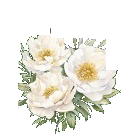
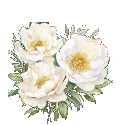
fix: adjust vertical spacing to prevent The Wedding of overlapping couple name and restore full flower petals

Changed region(s): [[0.05, 0.168, 0.95, 1.0], [0.25, 0.696, 0.275, 0.72]]

diff --git a/src/utils/photoCompositor.js b/src/utils/photoCompositor.js
@@ -17,7 +17,7 @@ function loadFlowerImage() {
     img.onerror = () => {
       resolve(null);
     };
-    img.src = '/flower-decor.png';
+    img.src = '/flower-decor.png?v=2';
   });
 }
 
@@ -124,7 +124,7 @@ export async function composePhotoboothImage({
   const PADDING = 38;
   const GAP = 18;
   const TOP_MARGIN = 38; // Tepi atas foto lurus dengan margin yang proporsional
-  const FOOTER_HEIGHT = 275;
+  const FOOTER_HEIGHT = 295;
 
   let canvasHeight = 1080;
   let slotWidth = 0;
@@ -228,7 +228,7 @@ export async function composePhotoboothImage({
   }
 
   // 5. Render Teks Footer Pernikahan
-  const footerContentTop = photoBottomY + 26;
+  const footerContentTop = photoBottomY + 22;
   const centerX = CANVAS_WIDTH / 2;
 
   ctx.textAlign = 'center';
@@ -238,47 +238,47 @@ export async function composePhotoboothImage({
   const cleanMessage = message.trim();
   const { prefix, couple } = parseWeddingTitle(weddingInfo.title);
 
-  // Baris 1: "The Wedding of" (di bawah foto, di atas Rahma & Febi, font sama seperti nama tamu)
+  // Baris 1: "The Wedding of" (di bawah foto, di atas Rahma & Febi dengan jarak yang lega)
   ctx.fillStyle = '#E8EFE5';
-  ctx.font = 'italic 500 20px "Cormorant Garamond", "Plus Jakarta Sans", sans-serif';
-  ctx.fillText(prefix || 'The Wedding of', centerX, footerContentTop + 14);
+  ctx.font = '500 19px "Cormorant Garamond", "Plus Jakarta Sans", sans-serif';
+  ctx.fillText(prefix || 'The Wedding of', centerX, footerContentTop + 16);
 
-  // Baris 2: Nama Pengantin ("Rahma & Febi" dengan font cursive kaligrafi elegan)
+  // Baris 2: Nama Pengantin ("Rahma & Febi" dengan font cursive kaligrafi elegan, tidak tertabrak)
   ctx.fillStyle = '#FFFFFF';
-  ctx.font = 'normal 56px "Alex Brush", "Playfair Display", cursive, serif';
-  ctx.fillText(couple, centerX, footerContentTop + 54);
+  ctx.font = 'normal 54px "Alex Brush", "Playfair Display", cursive, serif';
+  ctx.fillText(couple, centerX, footerContentTop + 68);
 
   // Baris 3: Tanggal Pernikahan
   ctx.fillStyle = '#F4EFE6';
   ctx.font = '500 20px "Cormorant Garamond", Georgia, serif';
-  ctx.fillText(weddingInfo.wedding_date || '27 September 2026', centerX, footerContentTop + 95);
+  ctx.fillText(weddingInfo.wedding_date || '27 September 2026', centerX, footerContentTop + 114);
 
   if (cleanMessage) {
     // Ucapan Tamu (Warna Emas Hangat #FFDE7A)
     ctx.fillStyle = '#FFDE7A';
     ctx.font = 'italic 22px "Playfair Display", Georgia, serif';
-    drawWrappedText(ctx, `"${cleanMessage}"`, centerX, footerContentTop + 140, 780, 28, 2);
+    drawWrappedText(ctx, `"${cleanMessage}"`, centerX, footerContentTop + 160, 780, 28, 2);
 
     // Nama Tamu
     if (cleanName) {
       ctx.fillStyle = '#FFFFFF';
       ctx.font = '500 20px "Cormorant Garamond", "Plus Jakarta Sans", sans-serif';
-      ctx.fillText(`-${cleanName}-`, centerX, footerContentTop + 182);
+      ctx.fillText(`-${cleanName}-`, centerX, footerContentTop + 204);
     }
   } else if (cleanName) {
     // Hanya Nama Tamu
     ctx.fillStyle = '#FFDE7A';
     ctx.font = 'italic 21px "Playfair Display", Georgia, serif';
-    ctx.fillText('Terima kasih atas doa & kehadirannya', centerX, footerContentTop + 138);
+    ctx.fillText('Terima kasih atas doa & kehadirannya', centerX, footerContentTop + 158);
 
     ctx.fillStyle = '#FFFFFF';
     ctx.font = '500 20px "Cormorant Garamond", "Plus Jakarta Sans", sans-serif';
-    ctx.fillText(`-${cleanName}-`, centerX, footerContentTop + 174);
+    ctx.fillText(`-${cleanName}-`, centerX, footerContentTop + 196);
   } else {
     // State Default Sebelum Tamu Mengetik
     ctx.fillStyle = '#FFDE7A';
     ctx.font = 'italic 20px "Playfair Display", Georgia, serif';
-    ctx.fillText('Abadikan Momen Hangat & Penuh Kebahagiaan', centerX, footerContentTop + 140);
+    ctx.fillText('Abadikan Momen Hangat & Penuh Kebahagiaan', centerX, footerContentTop + 160);
   }
 
   // Branding kecil Namoo Snap di paling bawah
